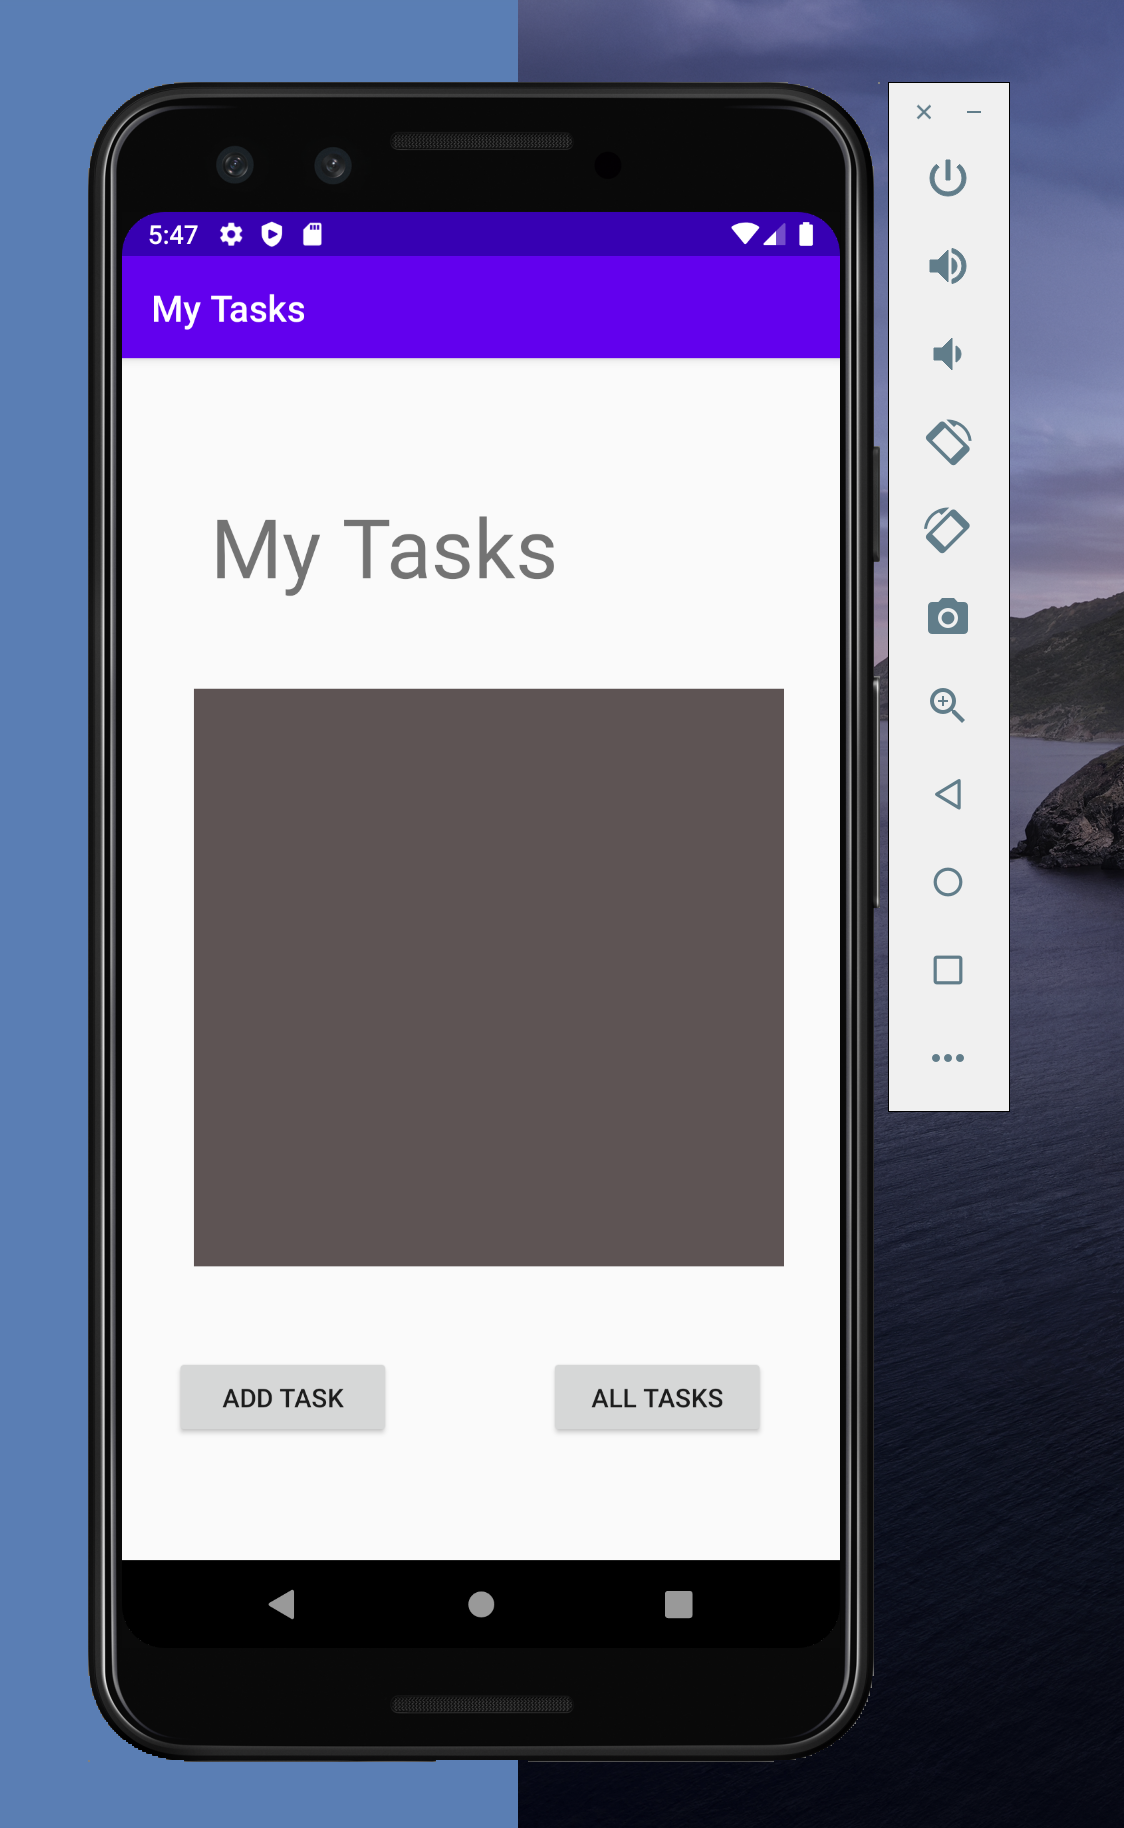
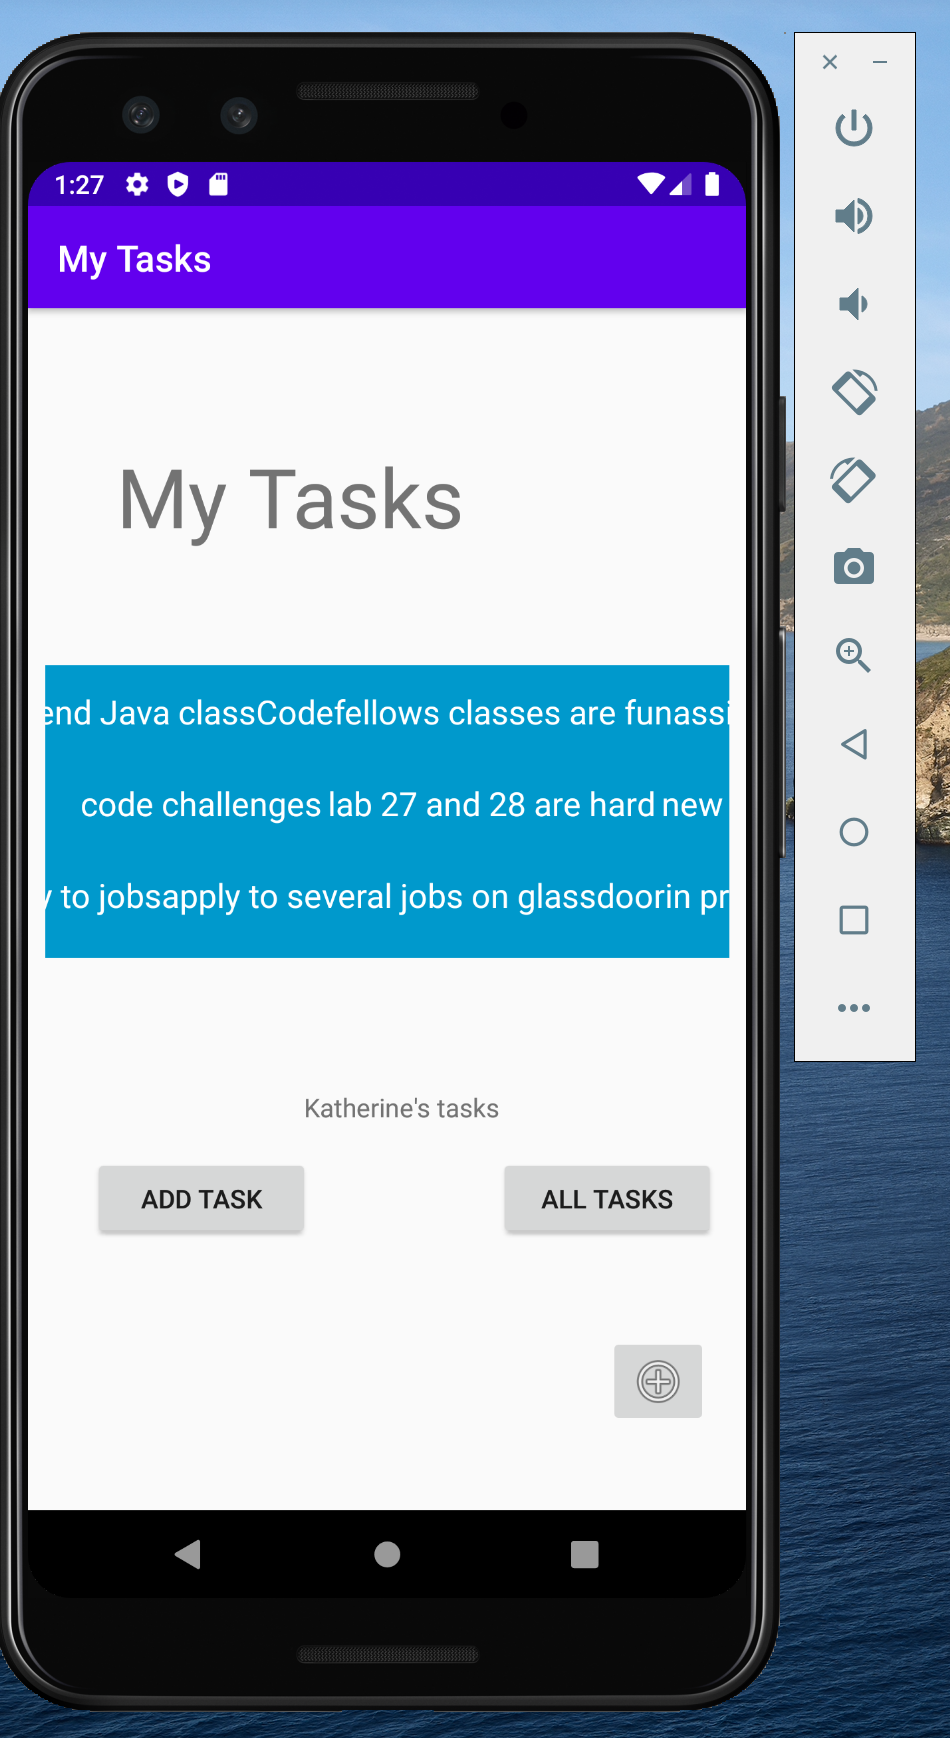
readme updated

diff --git a/app/src/main/java/com/vijayetar/mytasks/MainActivity.java b/app/src/main/java/com/vijayetar/mytasks/MainActivity.java
@@ -36,13 +36,9 @@ public class MainActivity extends AppCompatActivity implements TaskAdapter.OnInt
         allMyTasks.add(new Task ("attend Java class", "Codefellows classes are fun", "assigned" ));
         allMyTasks.add(new Task("code challenges", "lab 27 and 28 are hard", "new"));
         allMyTasks.add(new Task("apply to jobs","apply to several jobs on glassdoor", "in progress"));
-        allMyTasks.add(new Task ("attend Java class", "Codefellows classes are fun", "assigned" ));
-        allMyTasks.add(new Task("code challenges", "lab 27 and 28 are hard", "new"));
-        allMyTasks.add(new Task("apply to jobs","apply to several jobs on glassdoor", "in progress"));
-        allMyTasks.add(new Task ("attend Java class", "Codefellows classes are fun", "assigned" ));
-        allMyTasks.add(new Task("code challenges", "lab 27 and 28 are hard", "new"));
-        allMyTasks.add(new Task("apply to jobs","apply to several jobs on glassdoor", "in progress"));
-        allMyTasks.add(new Task ("attend Java class", "Codefellows classes are fun", "assigned" ));
+        allMyTasks.add(new Task ("exercise", "its fun", "assigned" ));
+        allMyTasks.add(new Task("shopping", "also fun", "new"));
+        allMyTasks.add(new Task("read book","maybe tomorrow", "in progress"));
 
         RecyclerView recyclerView = findViewById(R.id.allMyTasksRV);
         LinearLayoutManager l = new LinearLayoutManager(this);

diff --git a/README.md b/README.md
@@ -15,9 +15,13 @@ v0.1
 
 ## Here are images of the app 
 ---------------------------------
-#### v0.1 
+#### v0.2 
 Home Screen:
+* ![Settings Screen](screenshots/ActivitySetting.png ) 
+
 * ![Home Screen](screenshots/ActivityMain.png)  
+
+* ![Task Detail Screen](screenshots/ActivityDetail.png)  
 
 All Tasks:
 * ![All Tasks](screenshots/ActivityAllTasks.png)  
